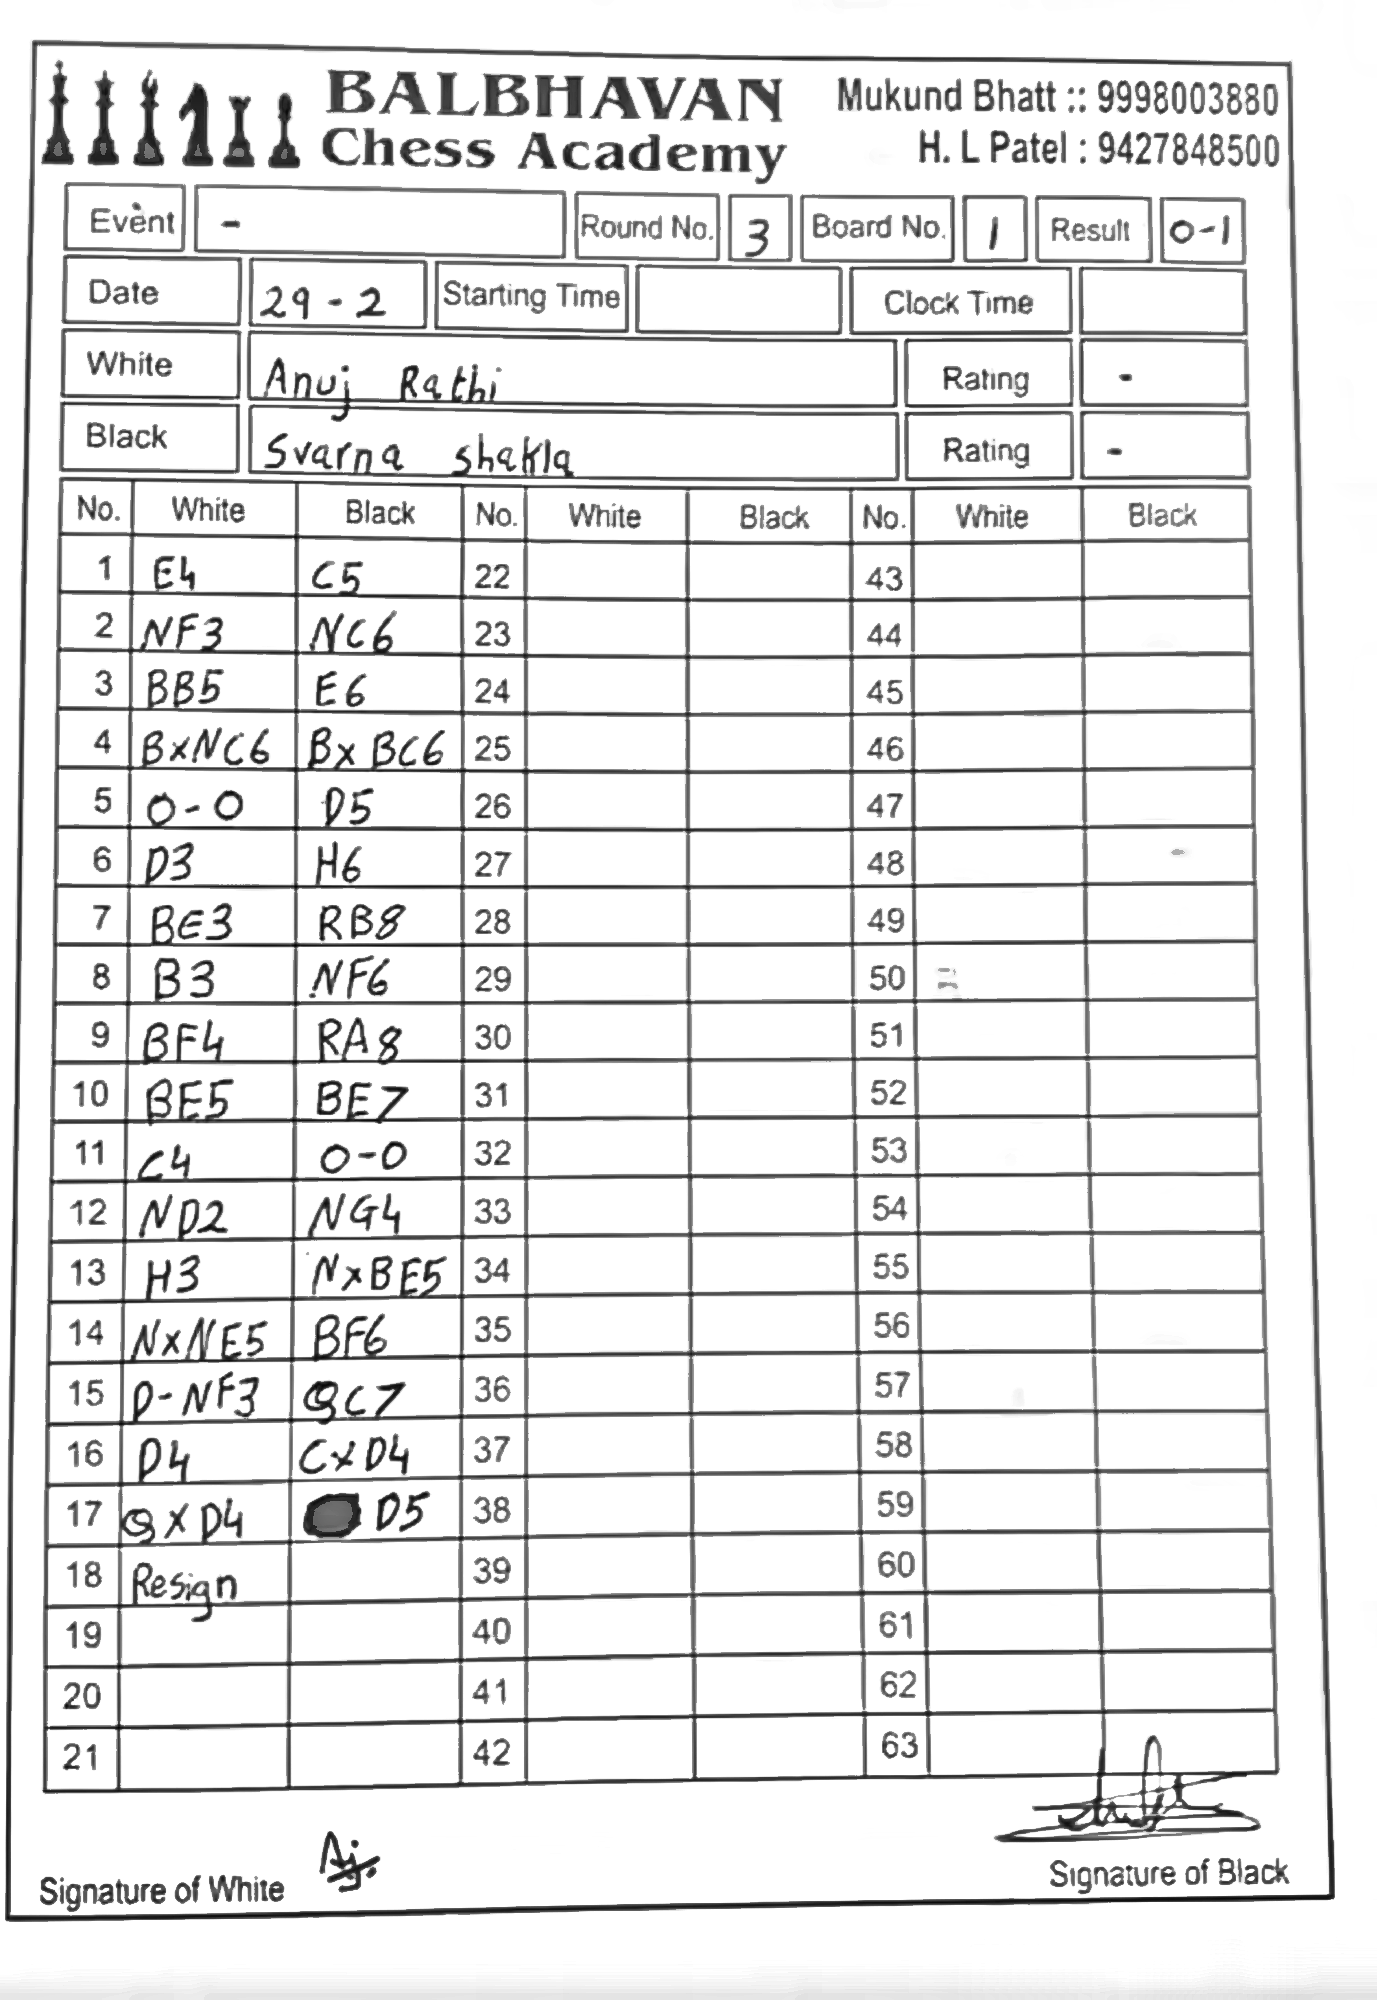
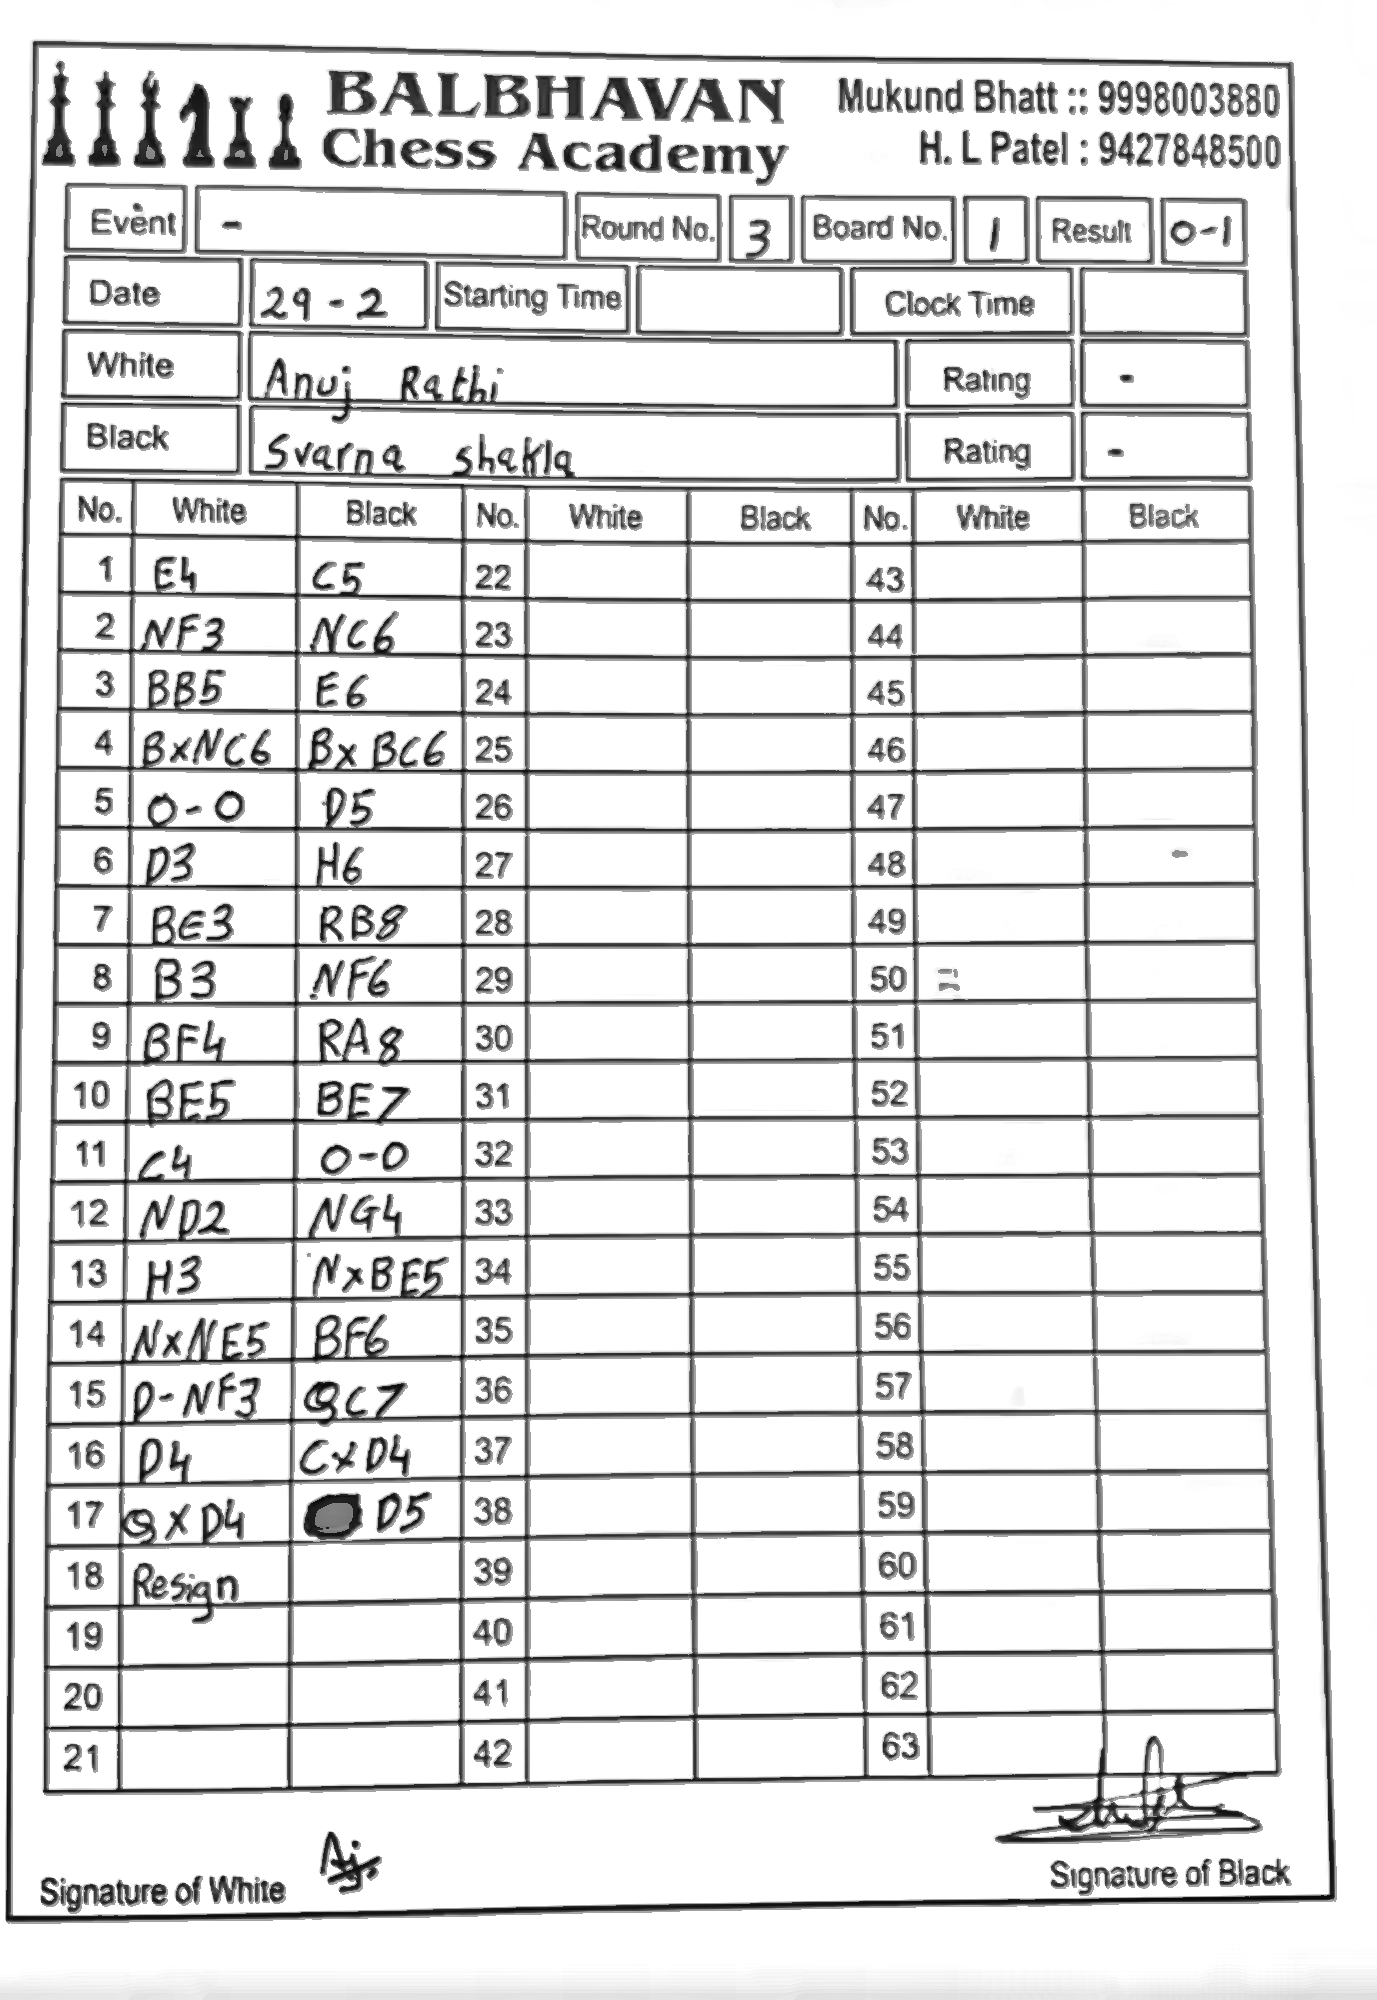
Enhance OCR class with a new static method for automatic inversion of grayscale images. Refine handwriting enhancement process by adjusting parameters and improving stroke visibility through morphological operations. Update preprocessing techniques for better image quality.

diff --git a/paddleocr2/paddle2x.py b/paddleocr2/paddle2x.py
@@ -111,6 +111,13 @@ class OCR():
         return gray
 
     @staticmethod
+    def _auto_invert_if_needed(gray: np.ndarray) -> np.ndarray:
+        """Make sure handwriting is dark on a light background."""
+        if float(np.mean(gray)) < 127.0:
+            return cv2.bitwise_not(gray)
+        return gray
+
+    @staticmethod
     def _deskew(gray: np.ndarray) -> np.ndarray:
         """Rotate a slightly tilted text block toward horizontal."""
         # Build a foreground mask first; using the raw inverse image makes the
@@ -145,32 +152,38 @@ class OCR():
         )
 
     def _enhance_handwriting(self, gray: np.ndarray) -> np.ndarray:
-        # Keep handwriting readable: clean the background, preserve strokes,
-        # and avoid turning the page into a harsh binary image too early.
-        gray = self._resize_for_ocr(gray, upscale=2.8)
-        gray = cv2.fastNlMeansDenoising(gray, None, h=5, templateWindowSize=7, searchWindowSize=21)
+        # Keep handwriting readable: increase local contrast, strengthen faint
+        # strokes, and avoid hard binarization until the very end.
+        gray = self._resize_for_ocr(gray, upscale=3.0)
+        gray = self._auto_invert_if_needed(gray)
+        gray = cv2.fastNlMeansDenoising(gray, None, h=4, templateWindowSize=7, searchWindowSize=21)
 
-        clahe = cv2.createCLAHE(clipLimit=2.3, tileGridSize=(8, 8))
+        clahe = cv2.createCLAHE(clipLimit=2.6, tileGridSize=(8, 8))
         gray = clahe.apply(gray)
 
-        bg = cv2.GaussianBlur(gray, (0, 0), sigmaX=21, sigmaY=21)
+        bg = cv2.GaussianBlur(gray, (0, 0), sigmaX=23, sigmaY=23)
         gray = cv2.divide(gray, bg, scale=255)
 
         gray = self._deskew(gray)
 
-        # Mix a soft binary mask back in so faint strokes survive preprocessing.
+        # Build a stroke mask, thicken it slightly, then blend it back so thin
+        # handwriting stays visible without destroying the grayscale structure.
         binary = cv2.adaptiveThreshold(
             gray,
             255,
             cv2.ADAPTIVE_THRESH_GAUSSIAN_C,
-            cv2.THRESH_BINARY,
-            31,
-            11,
+            cv2.THRESH_BINARY_INV,
+            33,
+            13,
         )
-        gray = cv2.addWeighted(gray, 0.8, binary, 0.2, 0)
+        kernel = cv2.getStructuringElement(cv2.MORPH_RECT, (2, 2))
+        binary = cv2.morphologyEx(binary, cv2.MORPH_CLOSE, kernel, iterations=1)
+        binary = cv2.dilate(binary, kernel, iterations=1)
+        stroke_layer = cv2.bitwise_not(binary)
+        gray = cv2.addWeighted(gray, 0.68, stroke_layer, 0.32, 0)
 
-        blur = cv2.GaussianBlur(gray, (0, 0), sigmaX=0.8)
-        gray = cv2.addWeighted(gray, 1.2, blur, -0.2, 0)
+        blur = cv2.GaussianBlur(gray, (0, 0), sigmaX=0.6)
+        gray = cv2.addWeighted(gray, 1.18, blur, -0.18, 0)
 
         gray = cv2.normalize(gray, None, 0, 255, cv2.NORM_MINMAX)
 
